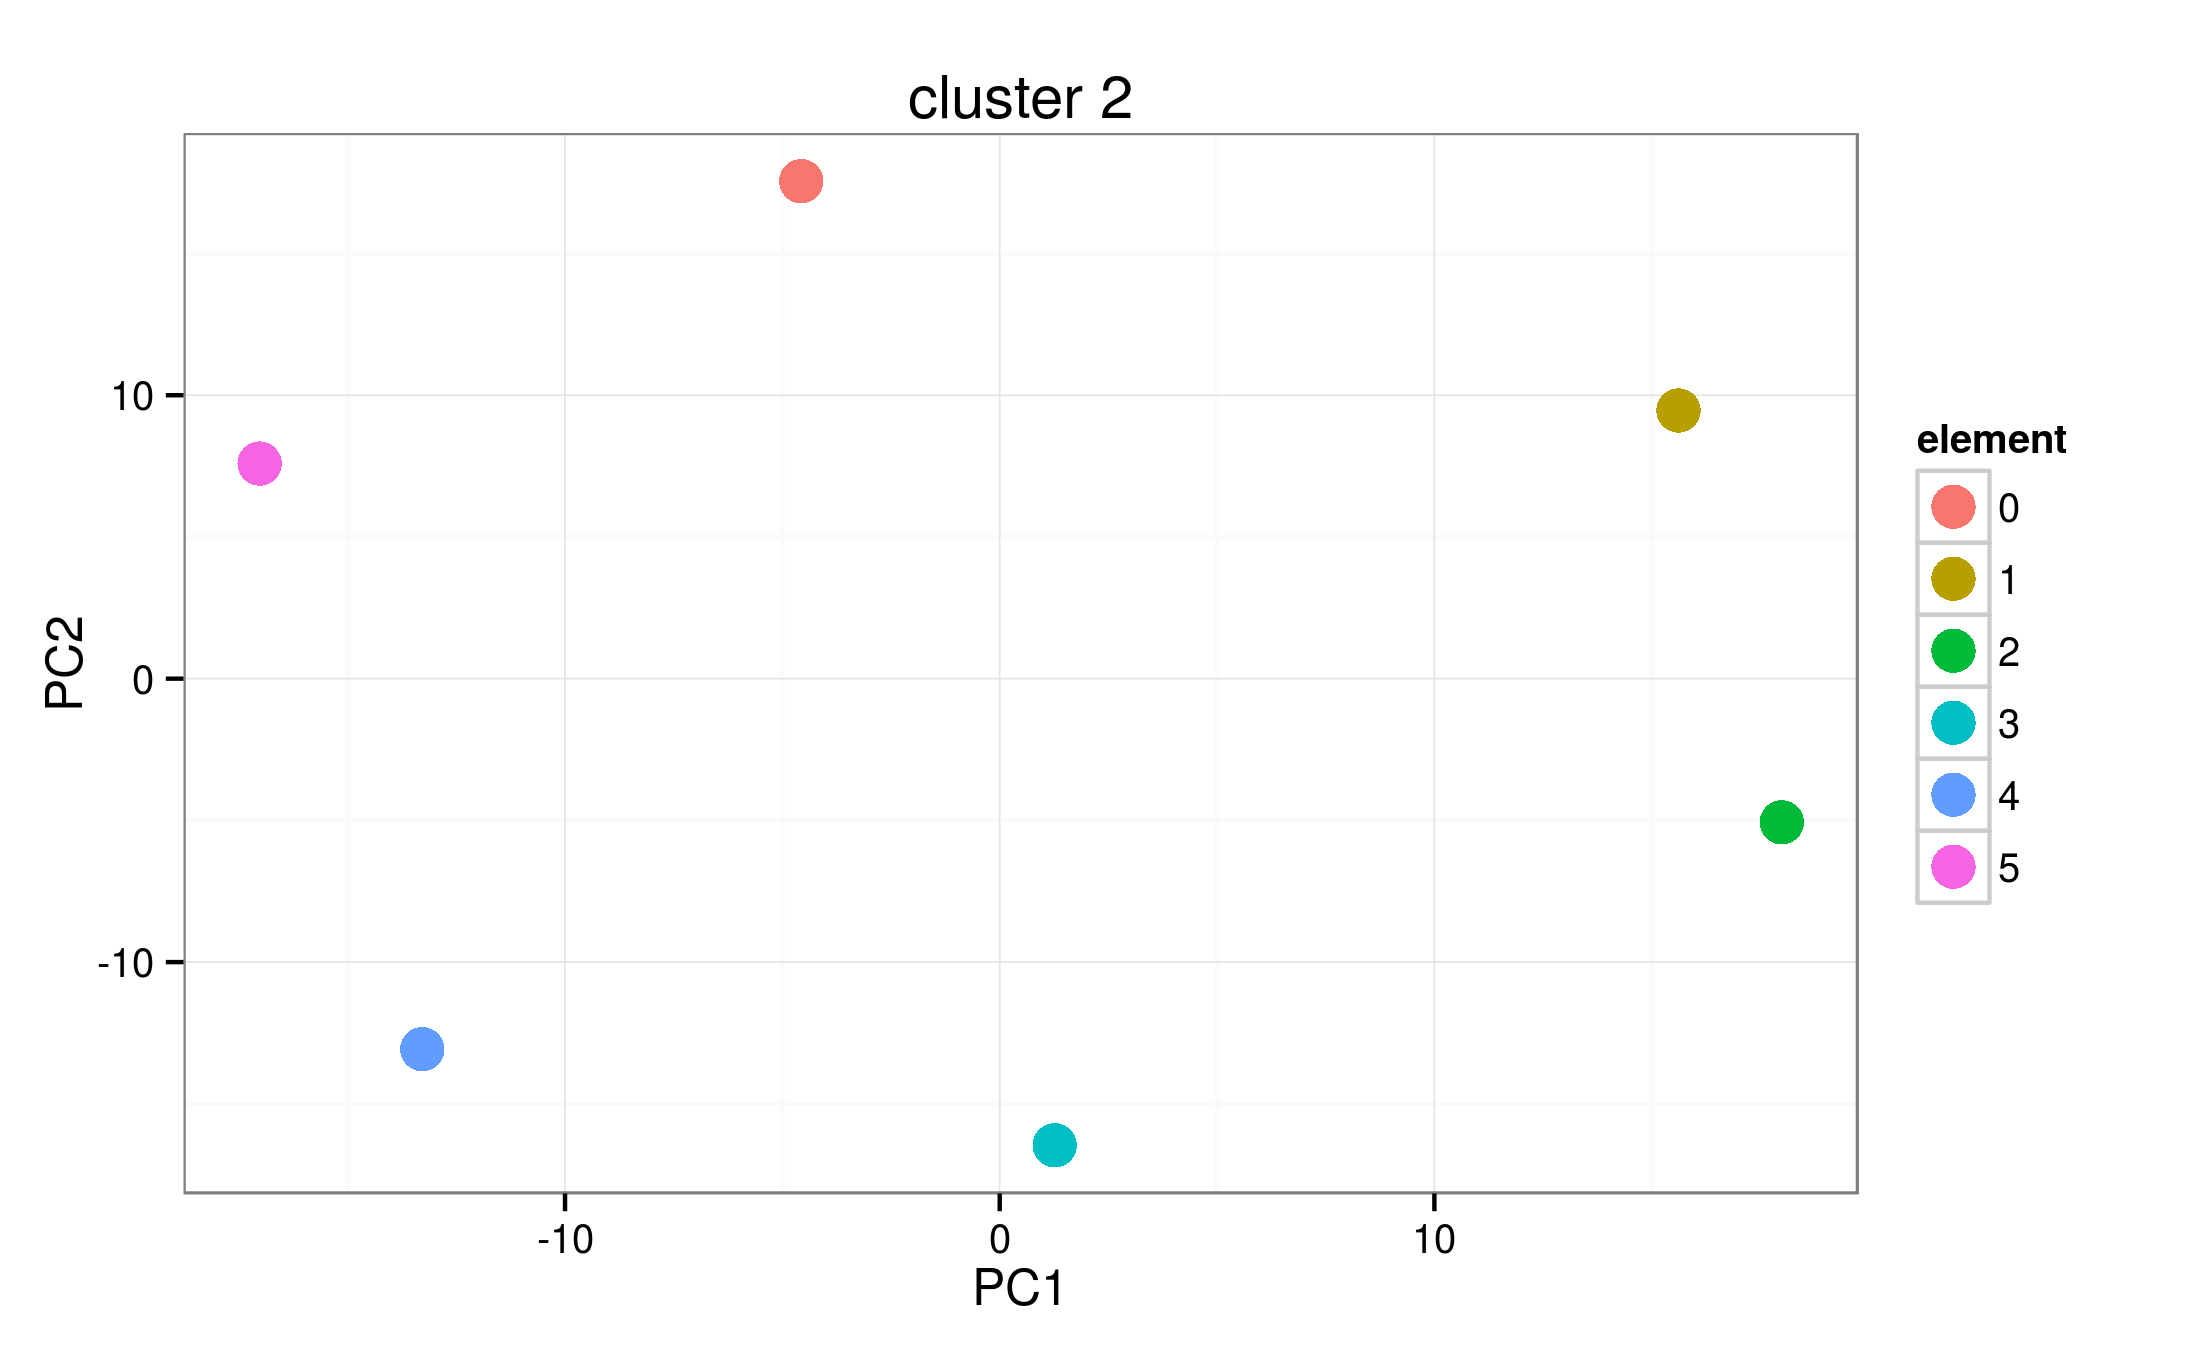
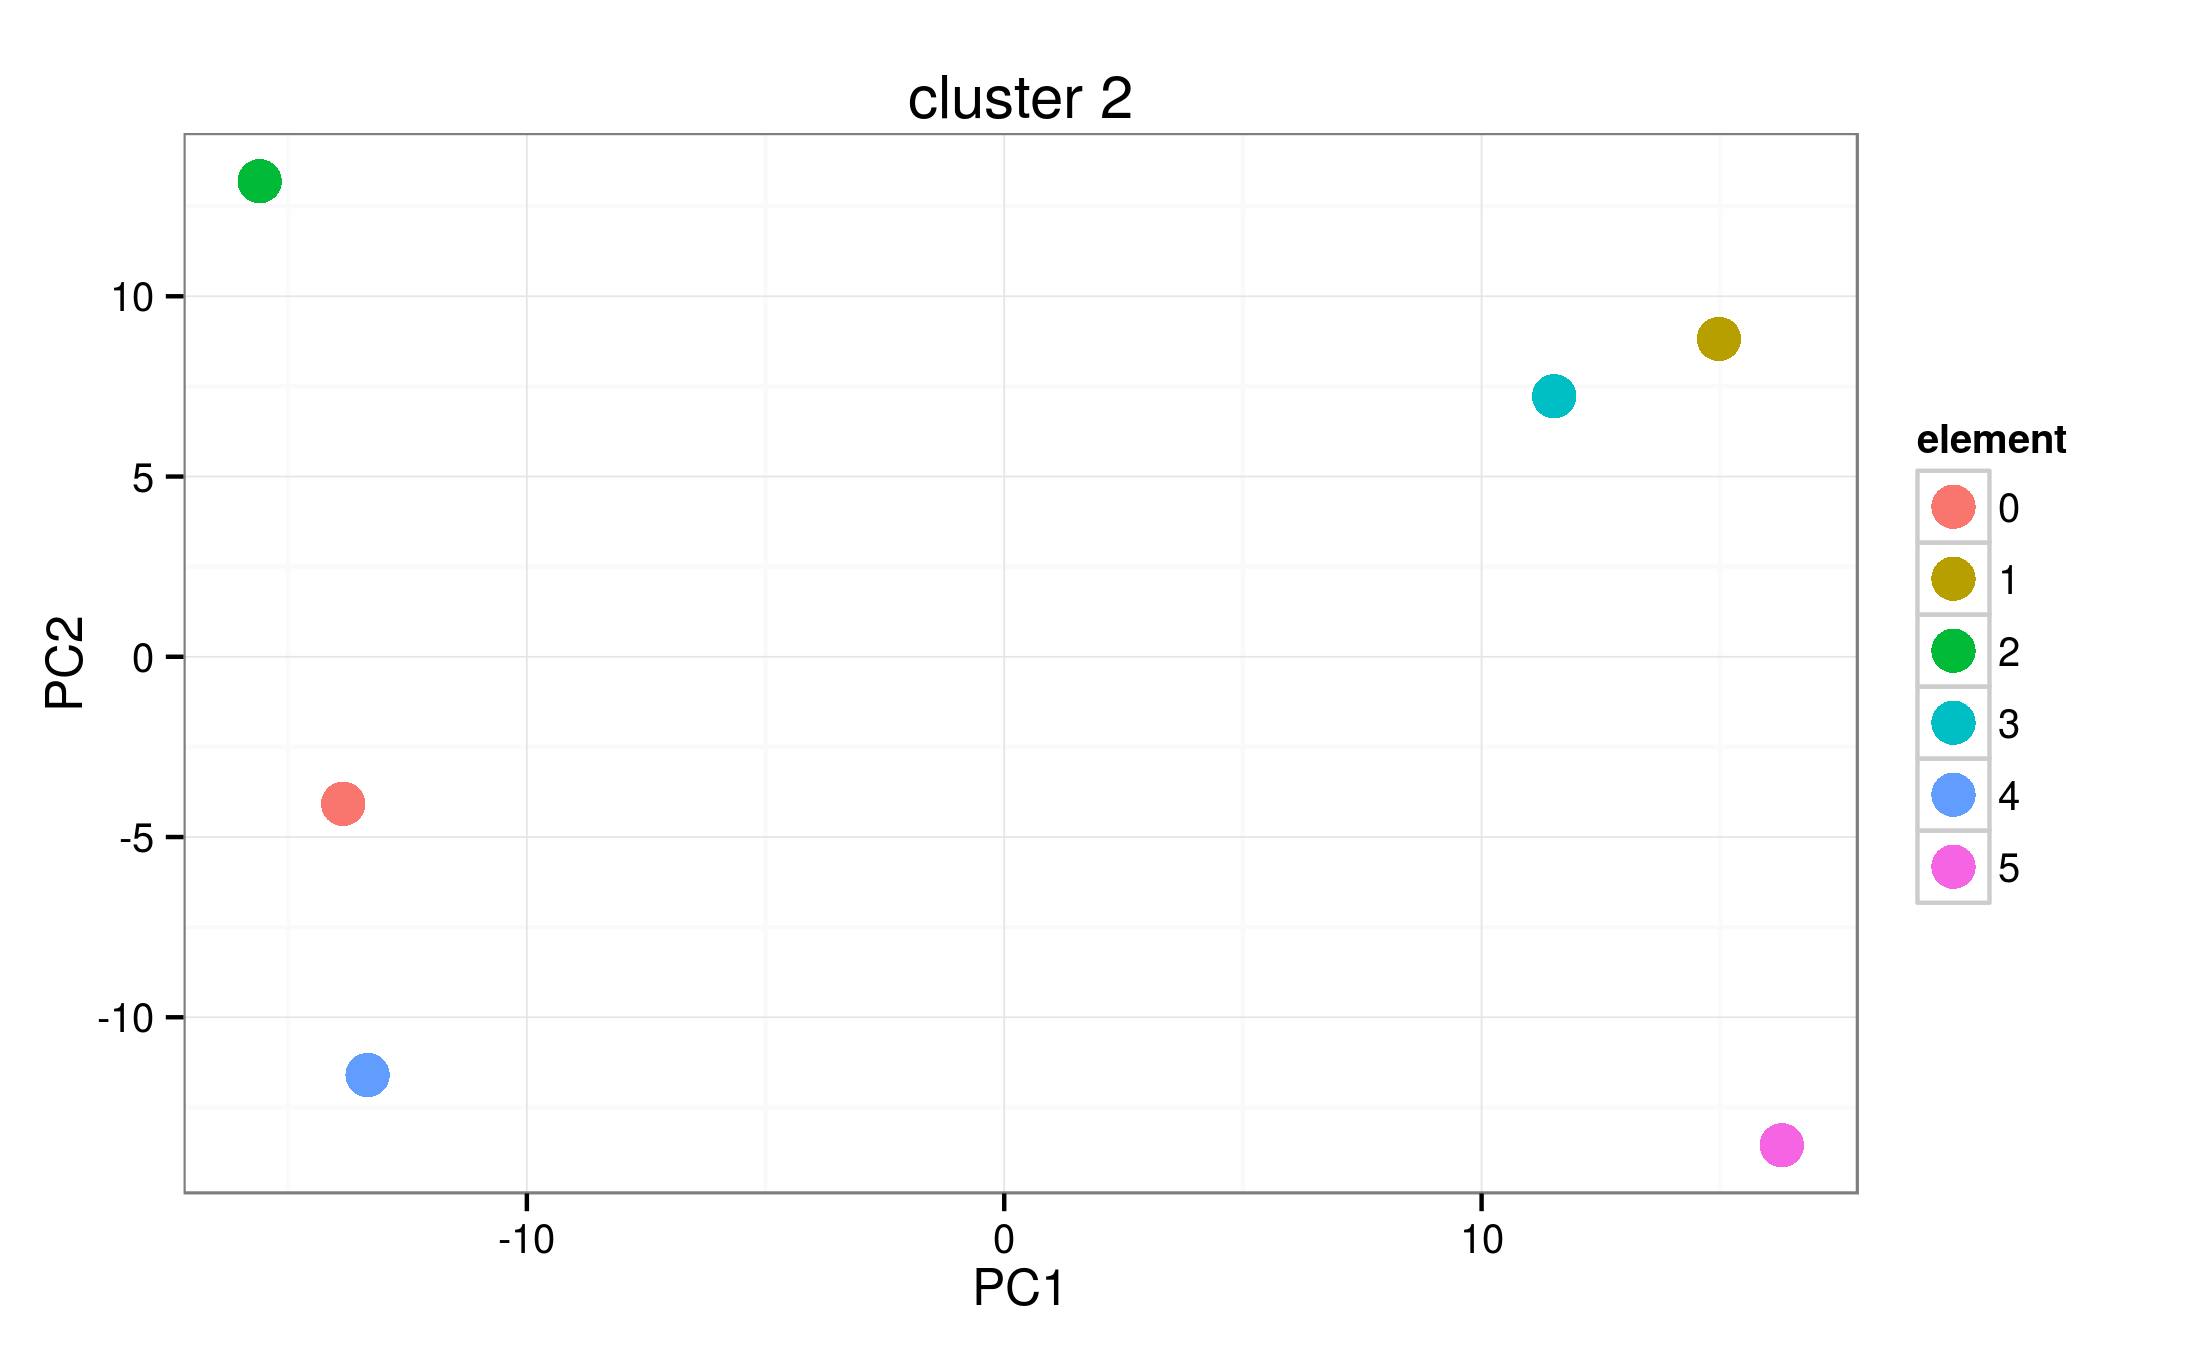
Larger network results -- not much visible

diff --git a/cyclic_groups.py b/cyclic_groups.py
@@ -5,7 +5,7 @@ import os
 
 ######Parameters###################
 #general
-group_order = 6
+group_order = 7
 
 #learning
 init_eta = 0.0005
@@ -14,7 +14,7 @@ eta_decay_epoch = 10
 nepochs = 100000
 early_termination_loss = 0.005
 nhidden_separate = group_order
-nhidden_shared = group_order
+nhidden_shared = group_order*group_order
 
 num_runs = 100
 #rseed = 2  #reproducibility
